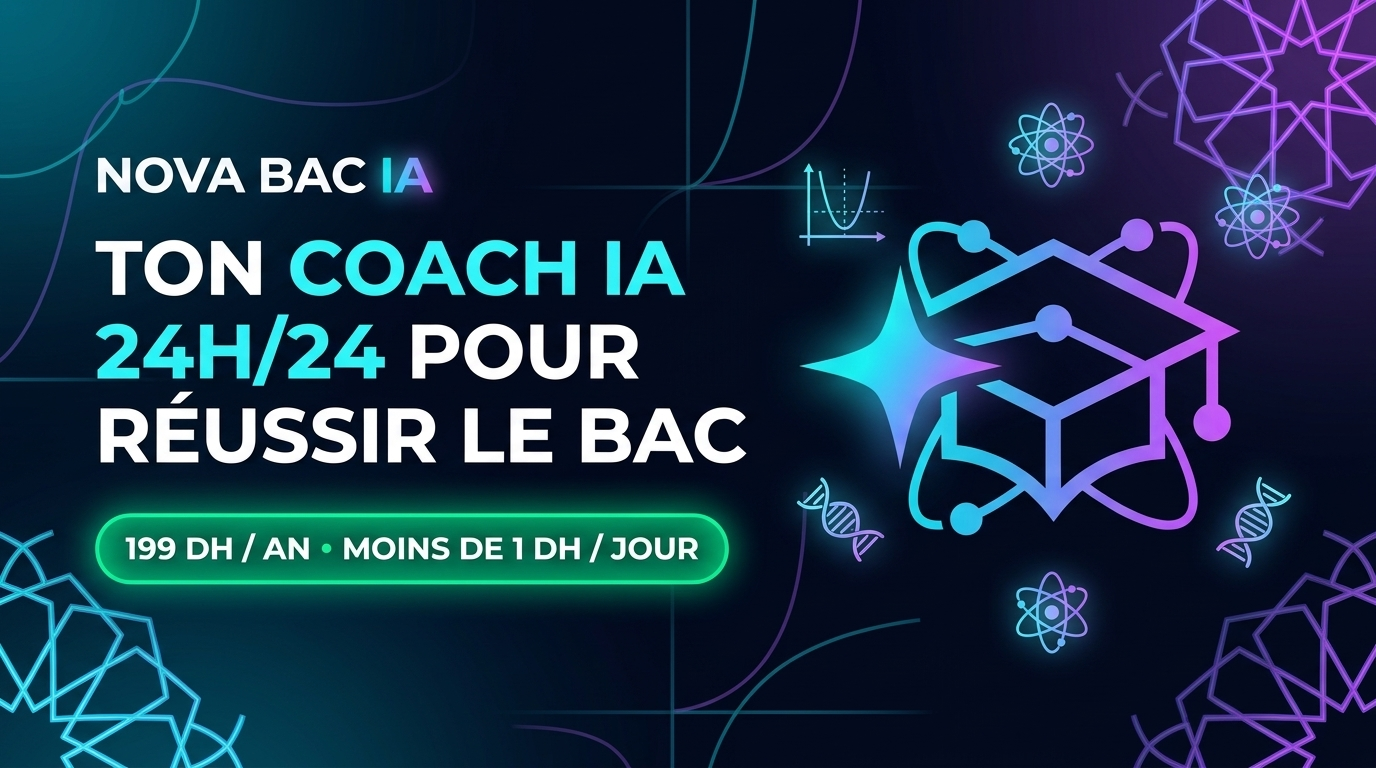
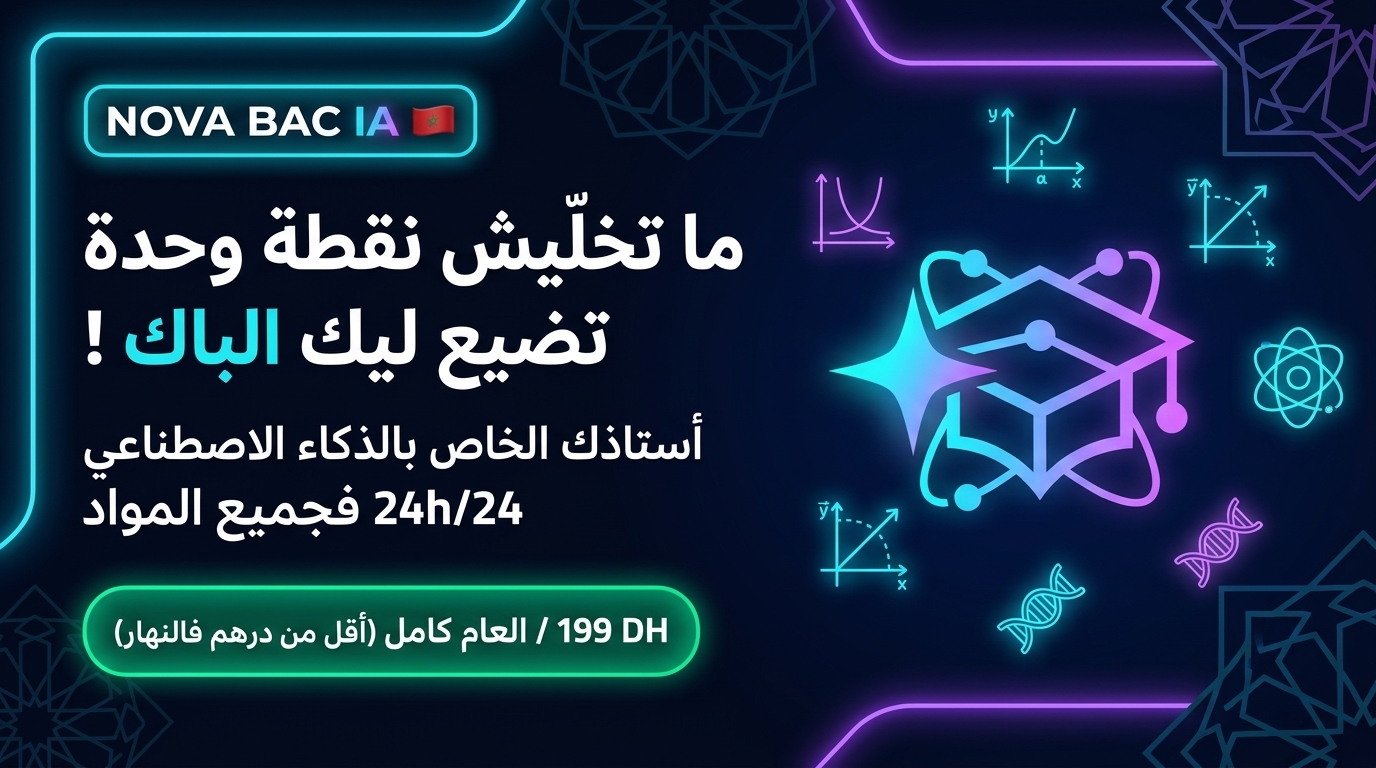
feat: switch Open Graph & Twitter Card thumbnail and share message to Moroccan Darija

diff --git a/index.html b/index.html
@@ -14,26 +14,26 @@
     <link rel="icon" type="image/png" sizes="32x32" href="assets/favicon-32x32.png">
     <link rel="apple-touch-icon" sizes="180x180" href="assets/apple-touch-icon.png">
 
-    <!-- Open Graph / WhatsApp / Facebook / LinkedIn -->
+    <!-- Open Graph / WhatsApp / Facebook / Instagram (En Darija Marocaine) -->
     <meta property="og:type" content="website">
-    <meta property="og:site_name" content="NOVA BAC IA Maroc">
-    <meta property="og:locale" content="fr_MA">
+    <meta property="og:site_name" content="NOVA BAC IA 🇲🇦">
+    <meta property="og:locale" content="ar_MA">
     <meta property="og:url" content="https://novabacia.novaskill.tech/">
-    <meta property="og:title" content="🎓 NOVA BAC IA — Ne rate pas ton Bac pour 1 point ! (Coach IA 24h/24)">
-    <meta property="og:description" content="Fini les cours particuliers hors de prix ! Ton professeur particulier IA disponible 24h/24 dans TOUTES les matières (Français, Arabe & Darija), calibré sur TON cerveau + Courbes, Schémas & Fiches PDF. Seulement 199 DH pour toute l'année (< 1 DH/jour) !">
-    <meta property="og:image" content="https://novabacia.novaskill.tech/assets/og-nova-bac-ia.jpg">
-    <meta property="og:image:secure_url" content="https://novabacia.novaskill.tech/assets/og-nova-bac-ia.jpg">
+    <meta property="og:title" content="🎓 NOVA BAC IA — ما تخلّيش نقطة وحدة تضيع ليك الباك ! (أستاذك الخاص 24h/24)">
+    <meta property="og:description" content="بلا ما تخلّص الآلاف فالسوايع لكل مادة ! الكوتش NOVA BAC IA معاك 24h/24 فجميع المواد، كيتريڭل على حساب الطريقة اللي دماغك كيفهم بيها الدرس (بالدارجة، العربية أو الفرنسية) + المبيانات والخطاطات و PDF. غير بـ 199 درهم للعام كامل (أقل من درهم فالنهار) !">
+    <meta property="og:image" content="https://novabacia.novaskill.tech/assets/og-nova-bac-ia-darija.jpg">
+    <meta property="og:image:secure_url" content="https://novabacia.novaskill.tech/assets/og-nova-bac-ia-darija.jpg">
     <meta property="og:image:type" content="image/jpeg">
     <meta property="og:image:width" content="1200">
     <meta property="og:image:height" content="630">
-    <meta property="og:image:alt" content="NOVA BAC IA — Ton Coach IA 24h/24 pour Réussir le Bac au Maroc (199 DH / an)">
+    <meta property="og:image:alt" content="NOVA BAC IA — ما تخلّيش نقطة وحدة تضيع ليك الباك ! أستاذك الخاص 24h/24 بـ 199 درهم للعام">
 
-    <!-- Twitter / X Card -->
+    <!-- Twitter / X Card (En Darija Marocaine) -->
     <meta name="twitter:card" content="summary_large_image">
-    <meta name="twitter:title" content="🎓 NOVA BAC IA — Ton Coach IA 24h/24 pour Réussir le Bac au Maroc">
-    <meta name="twitter:description" content="Ne laisse pas 1 point décider de ton avenir. Toutes les matières 24h/24, réglé selon ton profil d'apprentissage, avec courbes, schémas et fiches PDF pour 199 DH/an (< 1 DH/jour) !">
-    <meta name="twitter:image" content="https://novabacia.novaskill.tech/assets/og-nova-bac-ia.jpg">
-    <meta name="twitter:image:alt" content="NOVA BAC IA — Ton Coach IA 24h/24 pour Réussir le Bac au Maroc">
+    <meta name="twitter:title" content="🎓 NOVA BAC IA — ما تخلّيش نقطة وحدة تضيع ليك الباك !">
+    <meta name="twitter:description" content="أستاذك الخاص بالذكاء الاصطناعي 24h/24 فجميع المواد، مريڭل على حساب دماغك، غير بـ 199 درهم للعام كامل (أقل من درهم فالنهار) !">
+    <meta name="twitter:image" content="https://novabacia.novaskill.tech/assets/og-nova-bac-ia-darija.jpg">
+    <meta name="twitter:image:alt" content="NOVA BAC IA — ما تخلّيش نقطة وحدة تضيع ليك الباك !">
     
     <!-- Fonts -->
     <link rel="preconnect" href="https://fonts.googleapis.com">

diff --git a/diagnostic.html b/diagnostic.html
@@ -14,17 +14,18 @@
     <link rel="icon" type="image/png" sizes="32x32" href="assets/favicon-32x32.png">
     <link rel="apple-touch-icon" sizes="180x180" href="assets/apple-touch-icon.png">
 
-    <!-- Open Graph / Twitter Card -->
+    <!-- Open Graph / Twitter Card (En Darija Marocaine) -->
     <meta property="og:type" content="website">
-    <meta property="og:site_name" content="NOVA BAC IA Maroc">
+    <meta property="og:site_name" content="NOVA BAC IA 🇲🇦">
+    <meta property="og:locale" content="ar_MA">
     <meta property="og:url" content="https://novabacia.novaskill.tech/diagnostic.html">
-    <meta property="og:title" content="🎓 NOVA BAC IA — Ton Coach IA 24h/24 pour Réussir le Bac au Maroc">
-    <meta property="og:description" content="Fini les cours particuliers hors de prix ! Ton professeur particulier IA disponible 24h/24 dans toutes les matières pour 199 DH/an (< 1 DH/jour).">
-    <meta property="og:image" content="https://novabacia.novaskill.tech/assets/og-nova-bac-ia.jpg">
+    <meta property="og:title" content="🎓 NOVA BAC IA — ما تخلّيش نقطة وحدة تضيع ليك الباك ! (أستاذك الخاص 24h/24)">
+    <meta property="og:description" content="بلا ما تخلّص الآلاف فالسوايع لكل مادة ! الكوتش NOVA BAC IA معاك 24h/24 فجميع المواد، غير بـ 199 درهم للعام كامل (أقل من درهم فالنهار) !">
+    <meta property="og:image" content="https://novabacia.novaskill.tech/assets/og-nova-bac-ia-darija.jpg">
     <meta name="twitter:card" content="summary_large_image">
-    <meta name="twitter:title" content="🎓 NOVA BAC IA — Ton Coach IA 24h/24 pour Réussir le Bac">
-    <meta name="twitter:description" content="Ton professeur particulier IA disponible 24h/24 dans toutes les matières pour 199 DH/an (< 1 DH/jour).">
-    <meta name="twitter:image" content="https://novabacia.novaskill.tech/assets/og-nova-bac-ia.jpg">
+    <meta name="twitter:title" content="🎓 NOVA BAC IA — ما تخلّيش نقطة وحدة تضيع ليك الباك !">
+    <meta name="twitter:description" content="أستاذك الخاص بالذكاء الاصطناعي 24h/24 فجميع المواد، غير بـ 199 درهم للعام كامل (أقل من درهم فالنهار) !">
+    <meta name="twitter:image" content="https://novabacia.novaskill.tech/assets/og-nova-bac-ia-darija.jpg">
 
     <link rel="stylesheet" href="css/style.css?v=12">
     <link rel="stylesheet" href="https://cdnjs.cloudflare.com/ajax/libs/font-awesome/6.4.0/css/all.min.css">
